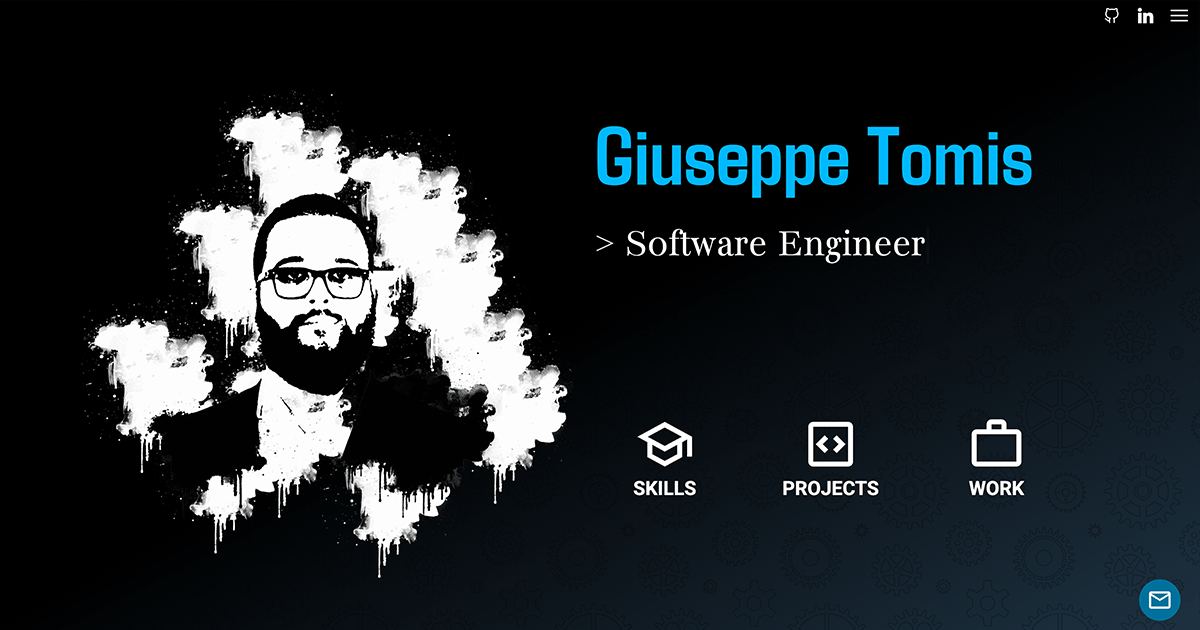
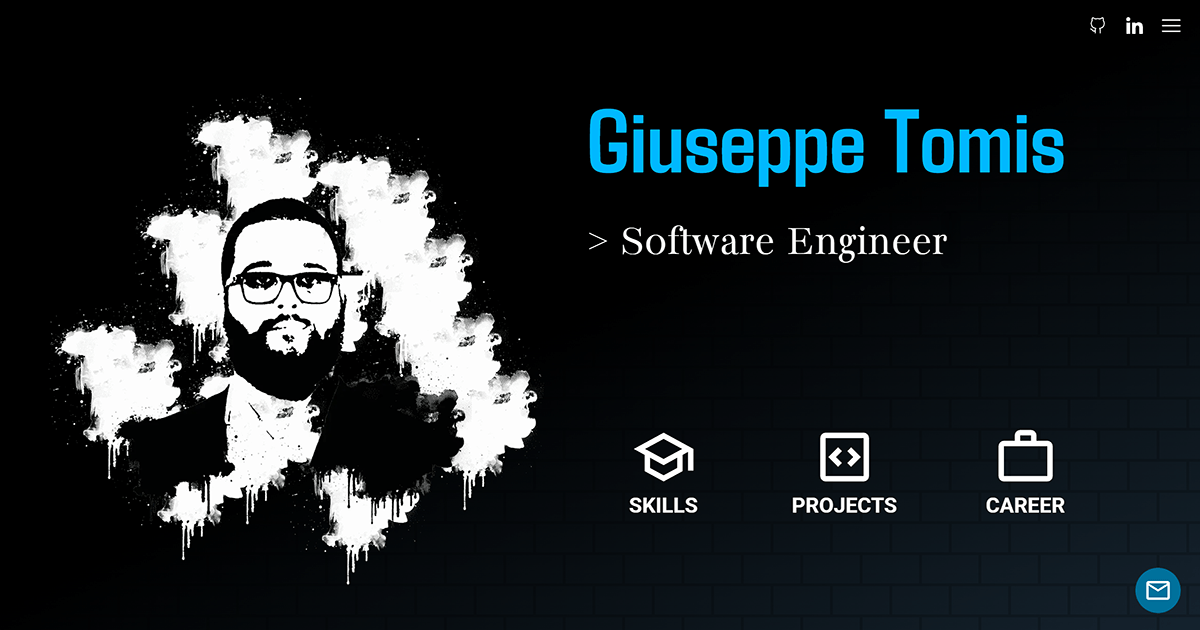
fix: button redirects, bg changed

diff --git a/src/components/projects/index.tsx b/src/components/projects/index.tsx
@@ -23,7 +23,7 @@ const Projects = () => {
       id="projects-container"
       className="relative flex flex-col items-center justify-center w-full pt-16 pb-32 mx-auto space-y-8 overflow-hidden md:pb-16 md:pt-16"
     >
-      <div className="absolute top-0 left-0 w-full h-full bg-engine-pattern opacity-20"></div>
+      <div className="absolute top-0 left-0 w-full h-full bg-bricks-pattern opacity-20"></div>
       <div className="z-10 flex flex-col items-center justify-center w-full space-y-8">
         <Typography
           extrabold

diff --git a/src/components/hero/index.tsx b/src/components/hero/index.tsx
@@ -17,7 +17,7 @@ const Hero = ({ onRedirect }: Props) => {
       id="welcome-container"
       className="relative flex items-center justify-center pb-8"
     >
-      <div className="absolute top-0 left-0 w-full h-full bg-engine-pattern opacity-20"></div>
+      <div className="absolute top-0 left-0 w-full h-full bg-bricks-pattern opacity-20"></div>
       <div className="z-10 flex flex-col items-center justify-center w-screen pt-12 lg:flex-row-reverse lg:space-x-reverse lg:space-x-4 lg:h-screen">
         <div
           className={

diff --git a/src/components/contact/index.tsx b/src/components/contact/index.tsx
@@ -89,7 +89,7 @@ const GetInTouch = () => {
       id="contact-container"
       className={`relative flex flex-col items-center pb-16 justify-center w-full pt-8 lg:px-0 md:pb-32 mx-auto space-y-8`}
     >
-      <div className="absolute top-0 left-0 w-full h-full bg-engine-pattern opacity-20"></div>
+      <div className="absolute top-0 left-0 w-full h-full bg-bricks-pattern opacity-20"></div>
       <div
         id="contact-title"
         className={`w-full z-10 flex flex-col justify-center items-center py-8 text-center`}

diff --git a/src/components/certifications/index.tsx b/src/components/certifications/index.tsx
@@ -9,7 +9,7 @@ const Certifications = () => {
   const { t } = useTranslations("home")
   return (
     <div
-      id="about-me-container"
+      id="experience-container"
       className={
         "relative py-24 overflow-hidden flex flex-col bg-gradient-to-bl from-primary-100 via-primary-100 to-primary-200 px-8 lg:mx-auto w-full justify-center items-center lg:items-center lg:justify-start"
       }

diff --git a/tailwind.config.js b/tailwind.config.js
@@ -18,8 +18,7 @@ module.exports = {
       },
       backgroundImage: {
         "gradient-radial": "radial-gradient(var(--tw-gradient-stops))",
-        "circuit-pattern": "url('/images/circuit-board.svg')",
-        "engine-pattern": "url('/images/engines.svg')",
+        "bricks-pattern": "url('/images/bricks.svg')",
       },
       animation: {
         carousel: "carousel 40s linear infinite",

diff --git a/src/components/topbar/index.tsx b/src/components/topbar/index.tsx
@@ -57,7 +57,7 @@ const TopBar = ({ setSidebarVisible, scrollToSelectedDiv }: Props) => {
             <TopBarIcon
               IconComponent={Briefcase}
               onClick={() => {
-                scrollToSelectedDiv(WebsiteSection.WORK)
+                scrollToSelectedDiv(WebsiteSection.CAREER)
               }}
               text={t("redirects.work")}
             />

diff --git a/src/components/hero/components/page-redirects/index.tsx b/src/components/hero/components/page-redirects/index.tsx
@@ -37,7 +37,7 @@ const PageRedirects = ({ onRedirect }: Props) => {
       <SectionShortcut
         label={t("redirects.work")}
         onClick={() => {
-          onRedirect(WebsiteSection.WORK)
+          onRedirect(WebsiteSection.CAREER)
         }}
         icon={<Briefcase />}
       />

diff --git a/src/utils/index.ts b/src/utils/index.ts
@@ -60,7 +60,7 @@ export enum ActivityColorText {
 
 export enum WebsiteSection {
   EXPERIENCE = "experience-container",
-  WORK = "work-container",
+  CAREER = "career-container",
   PROJECTS = "projects-container",
   CONTACT = "contact-title",
 }

diff --git a/src/components/experience/index.tsx b/src/components/experience/index.tsx
@@ -18,7 +18,7 @@ const Experience = () => {
 
   return (
     <div
-      id="experience-container"
+      id="career-container"
       className="flex flex-col px-4 py-16 bg-primary-500 md:p-16"
     >
       <div className="text-center">
